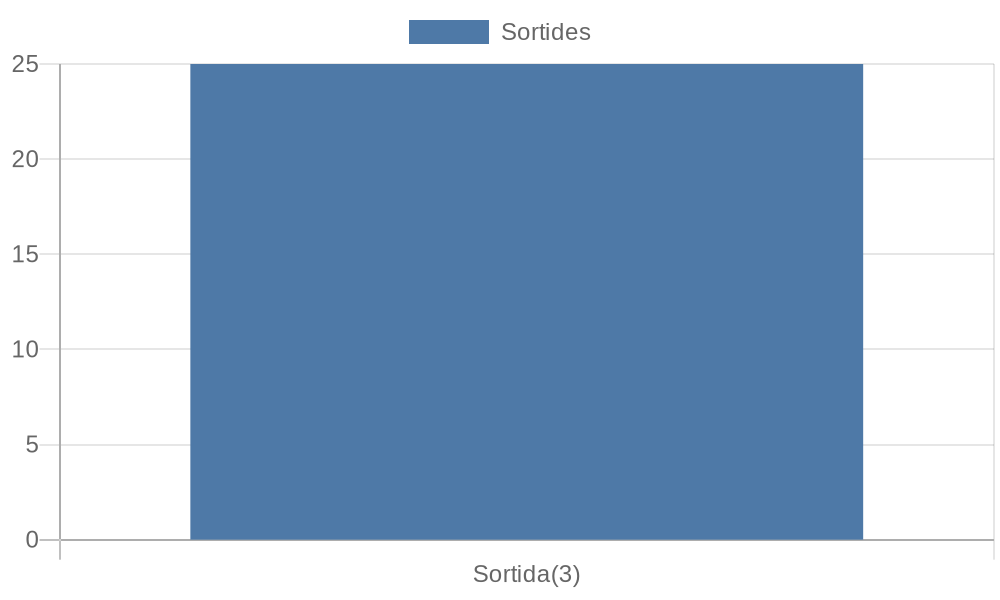
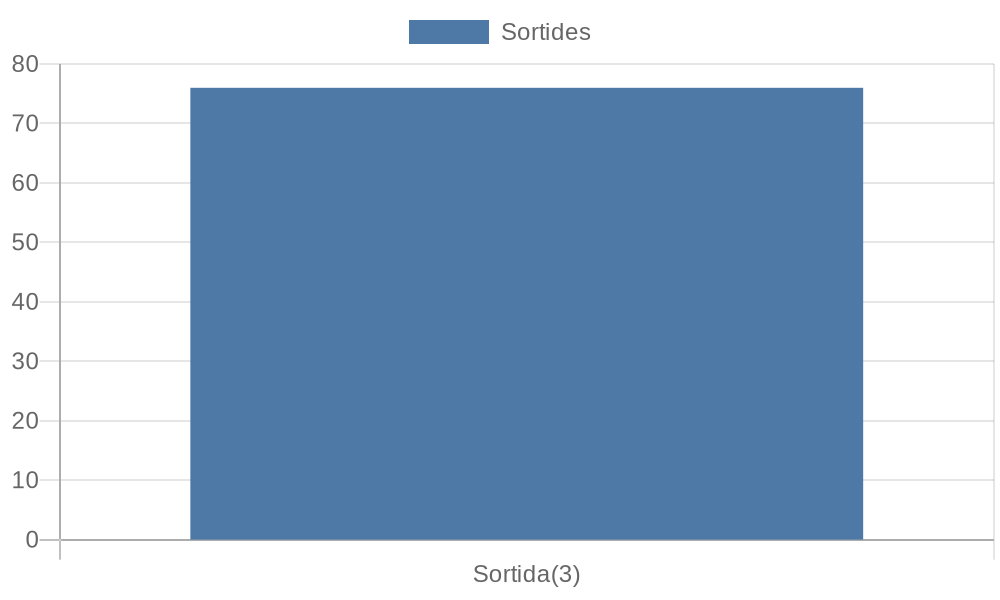
Modifica l'estat bloquejat del processador

diff --git a/Assets/Scripts/Objectes/ProcessadorScript.cs b/Assets/Scripts/Objectes/ProcessadorScript.cs
@@ -86,8 +86,7 @@ public class ProcessadorScript : LlibreriaObjectes, ITractarEsdeveniment
             tempsDisponible += (tActual-ultimTemps);
             ultimTemps = tActual;
             GenerarEsdevenimentProces(entitat, tActual);
-            if (maxEntitatsParalel == 1) estat = estats.BLOQUEJAT;
-            else estat = estats.PROCESSANT;
+            estat = estats.PROCESSANT;
             string capacitat;
             if (maxEntitatsParalel == -1) capacitat = "∞";
             else capacitat = maxEntitatsParalel.ToString();
@@ -98,8 +97,7 @@ public class ProcessadorScript : LlibreriaObjectes, ITractarEsdeveniment
             tempsProcessat += (tActual-ultimTemps);
             ultimTemps = tActual;
             GenerarEsdevenimentProces(entitat, tActual);
-            if (maxEntitatsParalel == -1 || (maxEntitatsParalel > entitatsProcessant.Count)) estat = estats.PROCESSANT;
-            else estat = estats.BLOQUEJAT;
+            estat = estats.PROCESSANT;
             string capacitat;
             if (maxEntitatsParalel == -1) capacitat = "∞";
             else capacitat = maxEntitatsParalel.ToString();
@@ -174,7 +172,7 @@ public class ProcessadorScript : LlibreriaObjectes, ITractarEsdeveniment
 
     public override bool EstaDisponible(GameObject objecteLlibreria)
     {
-        if (estat != estats.BLOQUEJAT){
+        if (estat != estats.BLOQUEJAT && maxEntitatsParalel > entitatsProcessant.Count){
             float tActual = MotorSimuladorScript.Instancia.ObteTempsActual();
             if (estat == estats.DISPONIBLE) tempsDisponible += (tActual-ultimTemps);
             else if (estat == estats.PROCESSANT) tempsProcessat += (tActual-ultimTemps);
